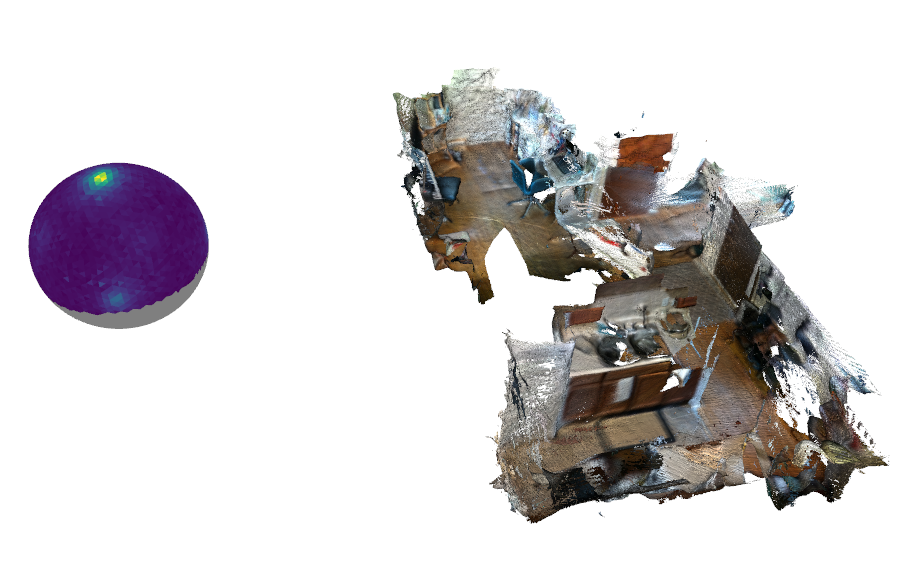
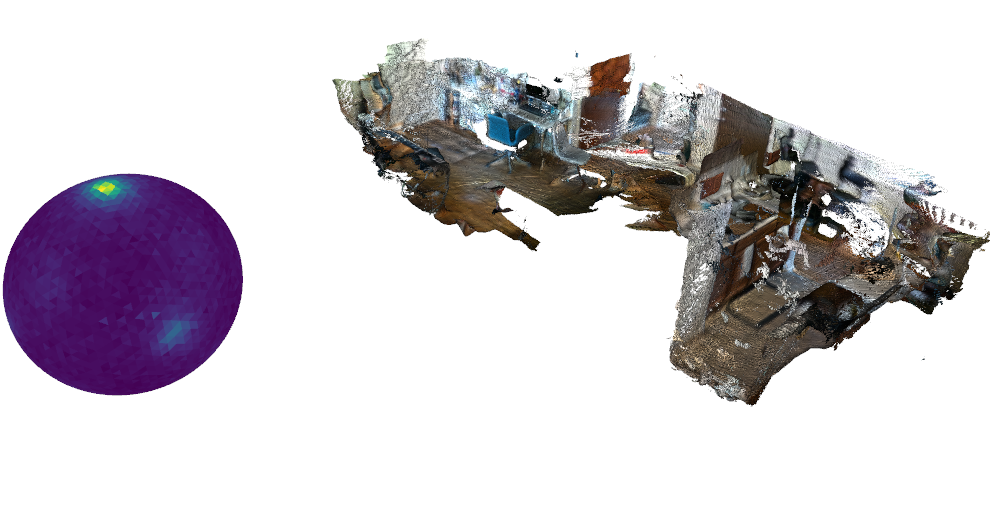
Finished IcoCharts, Updated Readme

diff --git a/include/FastGA/Ico.hpp b/include/FastGA/Ico.hpp
@@ -8,8 +8,6 @@ const static double EQUILATERAL_TRIANGLE_RATIO = sqrt(3.0) / 2.0;
 const static double ICOSAHEDRON_TRUE_RADIUS = sqrt(1.0 + GOLDEN_RATIO * GOLDEN_RATIO);
 const static double ICOSAHEDRON_SCALING = 1.0 / ICOSAHEDRON_TRUE_RADIUS;
 const static int NUMBER_OF_CHARTS = 5;
-// using Triangles = std::vector<std::array<size_t, 3>>;
-// using Vertices = std::vector<std::array<double, 3>>;
 
 inline constexpr int IcoMeshFaces(int level = 1)
 {
@@ -35,6 +33,8 @@ struct IcoMesh
     IcoMesh() : vertices(), triangles(), triangle_normals(), adjacency_matrix() {}
 };
 
+// An IcoChart is one of 5 face groups on an icosahedron
+// This function is used to create a 2D representation of one of these charts
 inline const IcoMesh CreateIcoChart(bool square = false)
 {
     IcoMesh mesh;
@@ -232,10 +232,6 @@ inline void RefineMesh(IcoMesh& mesh, const int level = 1, bool scale = true)
             auto p6_idx = GetPointIdx(p3_idx, p1_idx, point_to_idx, vertices, scale);
 
             // Create the four new triangles
-            // std::array<size_t, 3> t1 = {{p1_idx, p4_idx, p6_idx}};
-            // std::array<size_t, 3> t2 = {{p4_idx, p2_idx, p5_idx}};
-            // std::array<size_t, 3> t3 = {{p6_idx, p5_idx, p3_idx}};
-            // std::array<size_t, 3> t4 = {{p6_idx, p4_idx, p5_idx}};
             std::array<size_t, 3> t1 = {{p3_idx, p6_idx, p5_idx}};
             std::array<size_t, 3> t2 = {{p6_idx, p4_idx, p5_idx}};
             std::array<size_t, 3> t3 = {{p5_idx, p4_idx, p2_idx}};
@@ -270,9 +266,6 @@ inline std::vector<size_t> ExtractHalfEdges(const MatX3I& triangles)
     MatX2I halfedges_pi(triangles.size() * 3);
     std::unordered_map<size_t, size_t> vertex_indices_to_half_edge_index;
     vertex_indices_to_half_edge_index.reserve(triangles.size() * 3);
-    // auto after = std::chrono::high_resolution_clock::now();
-    // auto elapsed = std::chrono::duration_cast<std::chrono::milliseconds>(after - before);
-    // std::cout << "Create Datastructures took " << elapsed.count() << " milliseconds" << std::endl;
 
     for (size_t triangle_index = 0; triangle_index < triangles.size(); triangle_index++)
     {
@@ -303,11 +296,6 @@ inline std::vector<size_t> ExtractHalfEdges(const MatX3I& triangles)
         vertex_indices_to_half_edge_index[he_2_mapped] = he_2_index;
     }
 
-    // auto after2 = std::chrono::high_resolution_clock::now();
-    // elapsed = std::chrono::duration_cast<std::chrono::milliseconds>(after2 - after);
-    // std::cout << "Triangle loop took " << elapsed.count() << " milliseconds" << std::endl;
-    // Fill twin half-edge. In the previous step, it is already guaranteed that
-    // each half-edge can have at most one twin half-edge.
     for (size_t this_he_index = 0; this_he_index < halfedges.size(); this_he_index++)
     {
         size_t& that_he_index = halfedges[this_he_index];
@@ -323,12 +311,6 @@ inline std::vector<size_t> ExtractHalfEdges(const MatX3I& triangles)
             halfedges[twin_he_index] = this_he_index;
         }
     }
-    // auto after3 = std::chrono::high_resolution_clock::now();
-    // elapsed = std::chrono::duration_cast<std::chrono::milliseconds>(after3 - after2);
-    // std::cout << "Half Edge loop took " << elapsed.count() << " milliseconds" << std::endl;
-
-    // elapsed = std::chrono::duration_cast<std::chrono::milliseconds>(after3 - before);
-    // std::cout << "Total time took " << elapsed.count() << " milliseconds" << std::endl;
 
     return halfedges;
 }
@@ -474,7 +456,7 @@ class IcoCharts
     Image image_to_vertex_idx; // each pixel on the image is directly mapped to a vertex idx on the refined icosahedron
     Image mask;                // mask of image which indcates which cells are valid, useful to know what pixels are ghost cells
     IcoMesh sphere_mesh;       // Full Refined Icosahedron Mesh on S2
-    IcoCharts(const int level_ = 1, const int padding_ = 1) : level(level_), padding(padding_), image(get_chart_height(level, padding) * 5, get_chart_width(level, padding), 1), image_to_vertex_idx(get_chart_height(level, padding) * 5, get_chart_width(level, padding), 4), mask(get_chart_height(level, padding) * 5, get_chart_width(level, padding), 1), sphere_mesh(), chart_template(), point_idx_to_image_idx(), local_to_global_point_idx_map(NUMBER_OF_CHARTS)
+    IcoCharts(const int level_ = 1, const int padding_ = 1) : level(level_), padding(padding_), image(get_chart_height(level, padding) * NUMBER_OF_CHARTS, get_chart_width(level, padding), 1), image_to_vertex_idx(get_chart_height(level, padding) * NUMBER_OF_CHARTS, get_chart_width(level, padding), 4), mask(get_chart_height(level, padding) * NUMBER_OF_CHARTS, get_chart_width(level, padding), 1), sphere_mesh(), chart_template(), point_idx_to_image_idx(), local_to_global_point_idx_map(NUMBER_OF_CHARTS)
     {
         sphere_mesh = RefineIcosahedron(level);
         chart_template = RefineIcoChart(level, true);

diff --git a/include/FastGA/FastBinarySearch.hpp b/include/FastGA/FastBinarySearch.hpp
@@ -1,3 +1,8 @@
+
+// MIT License
+
+// Copyright (c) 2017 stgatilov, 2019 Jeremy Castagno
+// See https://dirtyhandscoding.wordpress.com/2017/08/25/performance-comparison-linear-search-vs-binary-search/
 #ifndef FASTGA_FBS_HPP
 #define FASTGA_FBS_HPP
 
@@ -6,54 +11,55 @@
 #include <stdint.h>
 #include <assert.h>
 
-namespace FBS
-{
+namespace FBS {
 
 #ifdef _MSC_VER
-    #define FORCEINLINE __forceinline
-    #define NOINLINE __declspec(noinline)
-    #define ALIGN(n) __declspec(align(n))
-    FORCEINLINE uint32_t bsr(uint32_t x) {
-        unsigned long res;
-        _BitScanReverse(&res, x);
-        return res;
-    }
-    FORCEINLINE uint32_t bsf(uint32_t x) {
-        unsigned long res;
-        _BitScanForward(&res, x);
-        return res;
-    }
+#define FORCEINLINE __forceinline
+#define NOINLINE __declspec(noinline)
+#define ALIGN(n) __declspec(align(n))
+FORCEINLINE uint32_t bsr(uint32_t x)
+{
+    unsigned long res;
+    _BitScanReverse(&res, x);
+    return res;
+}
+FORCEINLINE uint32_t bsf(uint32_t x)
+{
+    unsigned long res;
+    _BitScanForward(&res, x);
+    return res;
+}
 #else
-    #define FORCEINLINE __attribute__((always_inline)) inline
-    #define NOINLINE __attribute__((noinline))
-    #define ALIGN(n) __attribute__((aligned(n)))
-    FORCEINLINE uint32_t bsr(uint32_t x) {
-        return 31 - __builtin_clz(x);
-    }
-    FORCEINLINE uint32_t bsf(uint32_t x) {
-        return __builtin_ctz(x);
-    }
+#define FORCEINLINE __attribute__((always_inline)) inline
+#define NOINLINE __attribute__((noinline))
+#define ALIGN(n) __attribute__((aligned(n)))
+FORCEINLINE uint32_t bsr(uint32_t x)
+{
+    return 31 - __builtin_clz(x);
+}
+FORCEINLINE uint32_t bsf(uint32_t x)
+{
+    return __builtin_ctz(x);
+}
 #endif
-
 
 constexpr static intptr_t MINUS_ONE = -1;
 
-template<class T>
-inline int binary_search_branchless (const T *arr, int n, T key) {
-    assert((n & (n+1)) == 0); //n = 2^k - 1
-    //intptr_t pos = -1;            //generates "or r9, -1" on MSVC -- false dependency harms throughput
-    intptr_t pos = MINUS_ONE;       //workaround for MSVC: generates mov without dependency
+template <class T>
+inline int binary_search_branchless(const T* arr, int n, T key)
+{
+    assert((n & (n + 1)) == 0); //n = 2^k - 1
+    intptr_t pos = MINUS_ONE;
     intptr_t logstep = bsr(n);
     intptr_t step = intptr_t(1) << logstep;
-    while (step > 0) {
+    while (step > 0)
+    {
         pos = (arr[pos + step] < key ? pos + step : pos);
         step >>= 1;
     }
     return static_cast<int>(pos + 1);
 }
 
-
-
-}
+} // namespace FBS
 
 #endif

diff --git a/src/Python/fastga/peak_and_cluster.py b/src/Python/fastga/peak_and_cluster.py
@@ -32,8 +32,8 @@ def get_high_intensity_peaks(image, mask, num_peaks=np.inf):
     return coord[::-1]
 
 def find_peaks_from_ico_charts(ico_charts, normalized_bucket_counts_by_vertex,
-               find_peaks_kwargs=dict(threshold_abs=15, min_distance=1, exclude_border=False, indices=False),
-               cluster_kwargs=dict(t=0.05, criterion='distance')):
+               find_peaks_kwargs=dict(threshold_abs=25, min_distance=1, exclude_border=False, indices=False),
+               cluster_kwargs=dict(t=0.10, criterion='distance')):
     # Get data from ico chart
     # t0 = time.perf_counter()
     image_to_vertex_idx = np.asarray(ico_charts.image_to_vertex_idx)
@@ -56,7 +56,7 @@ def find_peaks_from_ico_charts(ico_charts, normalized_bucket_counts_by_vertex,
     # t2 = time.perf_counter()
 
     weights_1d_clusters = normalized_bucket_counts_by_vertex[vertices_idx]
-    average_peaks, average_weights = average_clusters(unclustered_peak_normals, weights_1d_clusters, clusters, average_filter=dict(min_total_weight=0.10))
+    average_peaks, average_weights = average_clusters(unclustered_peak_normals, weights_1d_clusters, clusters, average_filter=dict(min_total_weight=0.15))
 
     # print("IcoChart Peak Detection - Find Peaks Execution Time (ms): {:.1f}; Hierarchical Clustering Execution Time (ms): {:.1f}".format((t1-t0) * 1000, (t2-t1) * 1000))
     return vertices_idx, clusters, average_peaks, average_weights

diff --git a/src/FastGA/FastGA.cpp b/src/FastGA/FastGA.cpp
@@ -4,17 +4,6 @@
 
 namespace FastGA {
 
-std::ostream& operator<<(std::ostream& out, const std::array<double, 3>& v)
-{
-    if (!v.empty())
-    {
-        out << '[';
-        std::copy(v.begin(), v.end(), std::ostream_iterator<double>(out, ", "));
-        out << "\b\b]";
-    }
-    return out;
-}
-
 template <class T>
 GaussianAccumulator<T>::GaussianAccumulator(const int level, const double max_phi) : mesh(), buckets(), sort_idx(), mask(), projected_bbox(), num_buckets(0)
 {
@@ -321,8 +310,6 @@ std::vector<size_t> GaussianAccumulatorS2::Integrate(const MatX3d& normals, cons
     std::vector<uint64_t> hilbert_values(num_normals);
 
     int size = static_cast<int>(bucket_hv.size());
-    // auto begin_iter = bucket_hv.begin();
-    // Its faster to create compute the hilbert values for all the normals first
     for (size_t i = 0; i < num_normals; i++)
     {
         auto& normal = normals[i];
@@ -349,7 +336,6 @@ std::vector<size_t> GaussianAccumulatorS2::Integrate(const MatX3d& normals, cons
         buckets[best_bucket_idx].count += 1;
         bucket_indexes[i] = best_bucket_idx;
     }
-    // std::cout << "HV Creation took (ms): " << total_hv_creation << "; Binary Search took (ms): " << total_binary_search << std::endl;
     return bucket_indexes;
 }
 

diff --git a/include/FastGA/FastGA.hpp b/include/FastGA/FastGA.hpp
@@ -9,12 +9,13 @@
 #include <memory>
 
 #define FastGA_LEVEL 1
-#define FastGA_MAX_PHI 180
+#define FastGA_MAX_PHI 180.0
 #define FastGA_MAX_LEAF_SIZE 10
 #define FastGA_KDTREE_EPS 0.0
 #define FastGA_EXHAUSTIVE 0
 #define FastGA_TRI_NBRS 12
 namespace FastGA {
+// TODO This should be like an Abstract class maybe
 template <class T>
 class GaussianAccumulator
 {
@@ -28,7 +29,6 @@ class GaussianAccumulator
     size_t num_buckets;
     GaussianAccumulator();
     GaussianAccumulator(const int level = FastGA_LEVEL, const double max_phi = FastGA_MAX_PHI);
-    // GaussianAccumulator(const int level = FastGA_LEVEL);
     MatX3d GetBucketNormals(const bool reverse_sort=false);
     std::vector<double> GetNormalizedBucketCounts(const bool reverse_sort=false);
     std::vector<double> GetNormalizedBucketCountsByVertex(const bool reverse_sort=false);
@@ -54,6 +54,7 @@ class GaussianAccumulatorKD : public GaussianAccumulator<uint32_t>
     std::unique_ptr<NFA::nano_kd_tree_t> kd_tree_ptr;
 };
 
+// This Class is not very useful anymore
 class GaussianAccumulatorOpt : public GaussianAccumulator<uint32_t>
 {
 

diff --git a/include/FastGA/Helper.hpp b/include/FastGA/Helper.hpp
@@ -421,24 +421,6 @@ inline void AzimuthEqualAreaProjectionXYZ(const double* xyz, T* xy)
     xy[1] = top * xyz[1];
 }
 
-// template<class T>
-// inline void AzimuthEqualDistantProjectionXYZ(const double* xyz, T* xy)
-// {
-//     double phi = acos(xyz[2]);
-//     double scale = 0.0;
-//     if (phi < EPSILON)
-//     {
-//         scale = 0.0;
-//     }
-//     else
-//     {
-//         scale = 1.0 / (sqrt((xyz[0] * xyz[0]) + (xyz[1] * xyz[1])));
-//     }
-//     // scale = 1.0 / (sqrt((xyz[0] * xyz[0]) + (xyz[1] * xyz[1])));
-//     xy[0] = static_cast<T>(phi * xyz[1] * scale);
-//     xy[1] = static_cast<T>(-phi * xyz[0] * scale);
-// }
-
 template <class T>
 inline void ScaleXYToUInt32(const T* xy, uint32_t* scale, T min_x, T min_y, T x_range, T y_range)
 {

diff --git a/examples/python/run_meshes.py b/examples/python/run_meshes.py
@@ -295,6 +295,7 @@ def main():
 
         plot_meshes(colored_icosahedron_py, colored_icosahedron_cpp,
                     colored_icosahedron_opt, colored_icosahedron_s2, example_mesh_filtered)
+        # plot_meshes(colored_icosahedron_s2, example_mesh_filtered)
         # plot_hilbert_curve(ga_py_kdd)
         # normals_sorted = plot_hilbert_curve(ga_cpp_kdd)
         pcd_cpp_opt = plot_hilbert_curve(ga_cpp_opt, plot=False)

diff --git a/include/FastGA/NanoFlannAdaptors.hpp b/include/FastGA/NanoFlannAdaptors.hpp
@@ -1,11 +1,9 @@
 #include "nanoflann.hpp"
 #include "FastGA/Helper.hpp"
 
-namespace FastGA
-{
+namespace FastGA {
 
-namespace NFA
-{
+namespace NFA {
 
 template <typename Derived>
 struct BucketAdaptor
@@ -47,5 +45,5 @@ typedef nanoflann::KDTreeSingleIndexAdaptor<
     >
     nano_kd_tree_t;
 
-}
-}
+} // namespace NFA
+} // namespace FastGA

diff --git a/README.md b/README.md
@@ -5,7 +5,7 @@ The end result is then a histogram of the sphere. There are many choices for the
 
 ![Icosahedron](/assets/imgs/refined_icosahedron.png)
 
-Once a level of refinement is chosen, one can then integrate point vectors into the cells/buckets. For example integrating the normals of the following mesh would into a *half* gaussian sphere would look like this:
+Once a level of refinement is chosen, one can then integrate point vectors into the cells/buckets. For example integrating the normals of the following mesh into refined icosphere would look like the image below. Bright yellow indicates more counts for the triangle cells. This is basically showing that the floor [0, 0, 1] normal is very common.
 
 ![GaussianAccumulator](/assets/imgs/gaussian_accumulator_example.png)
 
@@ -16,7 +16,7 @@ To do this one must **find** the cell that corresponds to the point. This is a s
     - `GaussianAccumulatorKD` One implementation uses C++ nanoflann.
 * Global Index and Local Search - A 3D point is transformed to a unique integer id. The unique ids have the property that ids close to each other will be close to each other in 3D space. The closest id is found corresponding to a triangle cell. A local search of triangle neighbors is performed to find closest triangle cell to the point.
     - `GaussianAccumulatorOpt` - Works good on top hemisphere. Projects 3D point to plane using Azimuth Equidistant projection. Convert 2D point to int32 index using Hilbert Curve.
-    - `GaussianAccumulatorKDS2` - Works on full sphere! Uses Googles S2 Global index. 3D point is projected to unit cube, assigned to a face of the cube, and then a Hilbert curve index is found for that cube face.
+    - `GaussianAccumulatorS2` - Works on full sphere! Uses Googles S2 Global index. 3D point is projected to unit cube, assigned to a face of the cube, and then a Hilbert curve index is found for that cube face. This is recommended, and what I use.
 
 ## Installation
 
@@ -38,7 +38,9 @@ If you want to run the examples then you need to install the following (from mai
 
 1. `pip install -r requirements-dev.txt` 
 
-## Build with S2
+## Build with S2Geometry
+
+Googles S2Geometry library is **not** needed in this repository. I have encapsulated **all** code that transforms a unit normal (xyz point) to a unique integer id (uint64) into the header only file `include/NanoS2ID/NanoS2ID.hpp` . However if you desire to run some benchmarks comparing S2 geometry code with this repository you must install S2 by applying the following patch to the source code (included as a submodule).
 
 To build with S2 you must apply this patch first.
 
@@ -62,40 +64,16 @@ index 5ecd280..d67bf76 100644
 
 Then enable the option for CMake.
 
-## Profiling
+### General Notes
 
-1. `LD_PRELOAD=/usr/lib/x86_64-linux-gnu/libprofiler.so CPUPROFILE=prof.prof CPUPROFILE_FREQUENCY=1000` 
-2. `google-pprof --cum --web ./cmake-build/bin/example-kd prof.prof` 
+`NanoS2ID.hpp` is header only and which allows it to be optimized more easily (for developer). `S2Geometry` can be compiled as a shared library or a static library (I have tried both). Getting an S2ID is about 50% faster using `NanoS2ID` . My guess is that there is function call overhead in calling a library, vs inlining the function. However, I did build S2 as a static library and did enable link time optimization, but it didn't make it any faster. However I'm guessing I just made a mistake in this process and its *possible* to make `S2` as fast as `NanoS2ID` .
+
+I also tried using S2 as a point index (similar to a KDTree) and found it was *significantly* slower, about 5X slower than using a KDTree.
 
 ## Notes
 
-Indices copying
+### Profiling
 
-* Copy Row to Col (Left column)
-
-```python
-level = 2
-sub_block_width = 2 ** level
-to_indices = [[[i * chart_height + 1, i * chart_height + 1 + sub_block_width], [0,1]] for i in range(num_charts)]
-from_indices = [[[((i+1) % (num_charts)) * chart_height + 1, ((i+1) % (num_charts)) * chart_height + 2], [1, sub_block_width]] for i in range(num_charts)]
-```
-
-* Copy Row to Row (Extra row, left side)
-
-```
-level = 2
-sub_block_width = 2 ** level
-to_indices = [[[chart_height * (i+1) - 1, chart_height * (i+1)], [1, sub_block_width + 1]] for i in range(num_charts)]
-from_indices = [[[((i+1) % (num_charts)) * chart_height + 1, ((i+1) % (num_charts)) * chart_height + 2], [1 + sub_block_width, 1 + 2*sub_block_width]] for i in range(num_charts)]
-```
-
-* Copy Col to Row (Extra row, right side)
-
-```
-level = 2
-sub_block_width = 2 ** level
-total_width = 2 ** (level + 1)
-to_indices = [[[chart_height * (i+1) - 1, chart_height * (i+1)], [1 + sub_block_width, 1 + 2*sub_block_width]] for i in range(num_charts)]
-from_indices = [[[((i+1) % (num_charts)) * chart_height + 1, ((i+1) % (num_charts)) * chart_height + 1 + sub_block_width], [total_width, total_width + 1]] for i in range(num_charts)]
-```
+1. `LD_PRELOAD=/usr/lib/x86_64-linux-gnu/libprofiler.so CPUPROFILE=prof.prof CPUPROFILE_FREQUENCY=1000` 
+2. `google-pprof --cum --web ./cmake-build/bin/example-kd prof.prof` 
 
